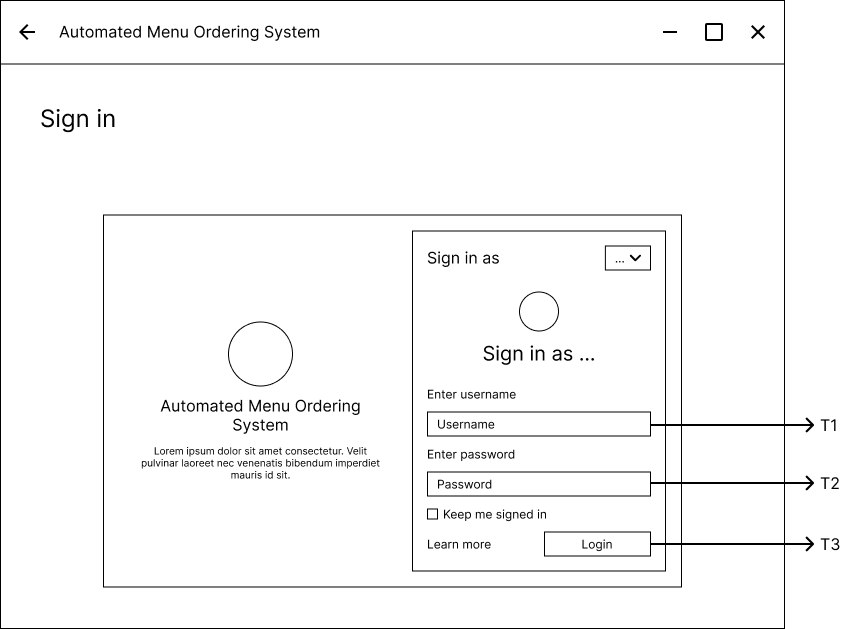
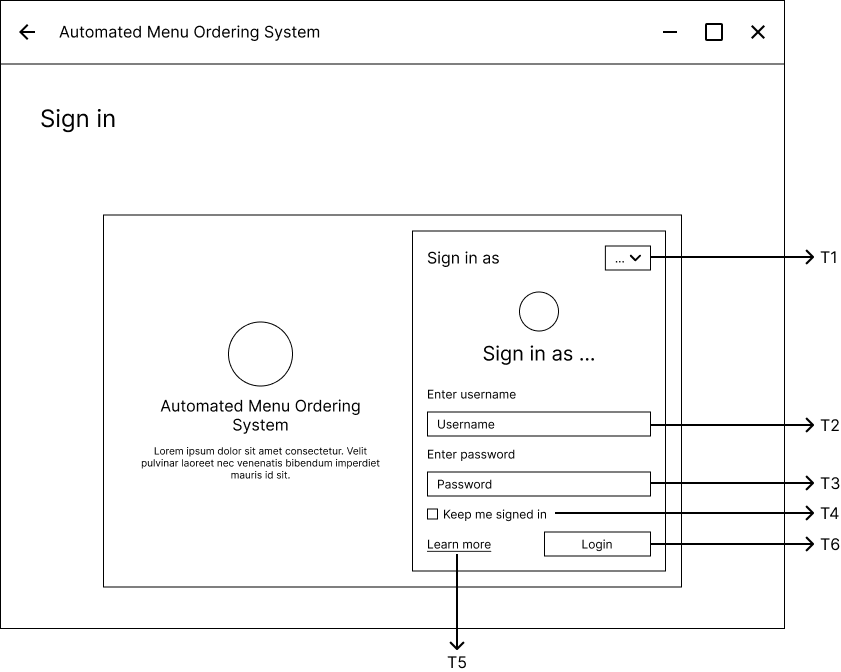
.

diff --git a/README.md b/README.md
@@ -191,31 +191,10 @@ There are three actors:
 
 ### Sign In Page
 
-#### Sign In - Customer
+![alt text](https://raw.githubusercontent.com/abdbbdii/assets/refs/heads/main/wireframes/Signin.png)
 
-![alt text](https://raw.githubusercontent.com/abdbbdii/assets/refs/heads/main/wireframes/Signin-Customer.png)
+| Component | Admin | Manager | Customer |
 
-| Component | Customer |
-| --- | --- |
-| T1 | I
-
-#### Sign In - Manager
-
-![alt text](https://raw.githubusercontent.com/abdbbdii/assets/refs/heads/main/wireframes/Signin-Manager.png)
-
-| Component | Description |
-| --- | --- |
-| T1 | Input field to enter the manager's username |
-| T2 | Input field to enter the manager's password |
-
-### Sign In - Admin
-
-![alt text](https://raw.githubusercontent.com/abdbbdii/assets/refs/heads/main/wireframes/Signin-Admin.png)
-
-| Component | Description |
-| --- | --- |
-| T1 | Input field to enter the admin's username |
-| T2 | Input field to enter the admin's password |
 
 ### Home Page
 
